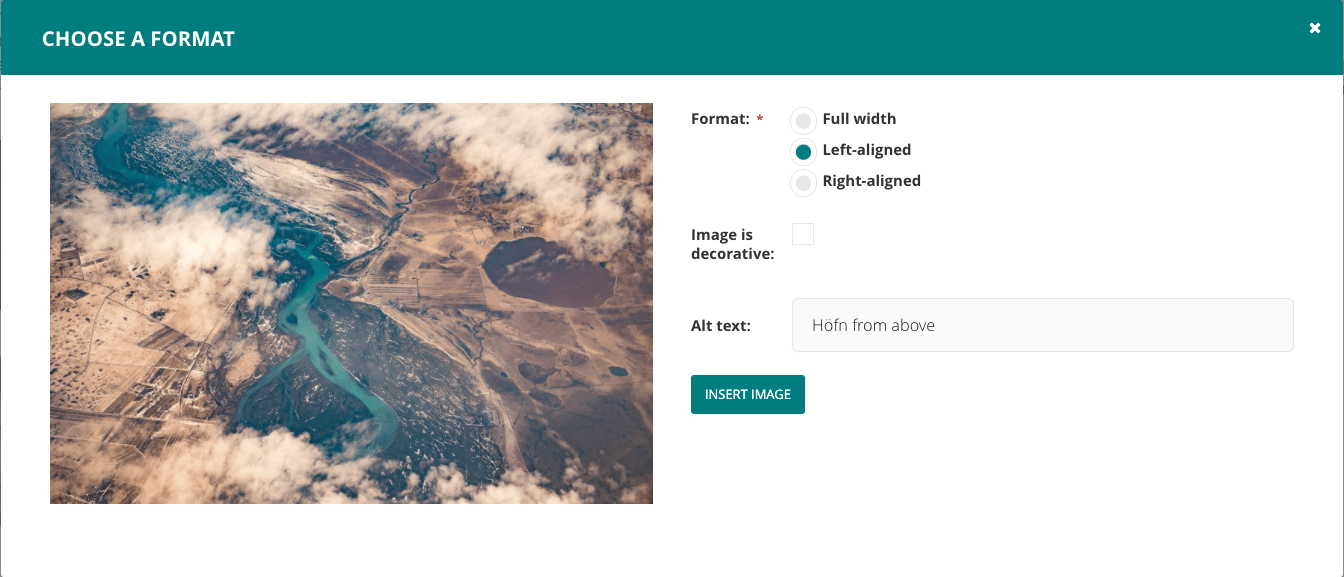
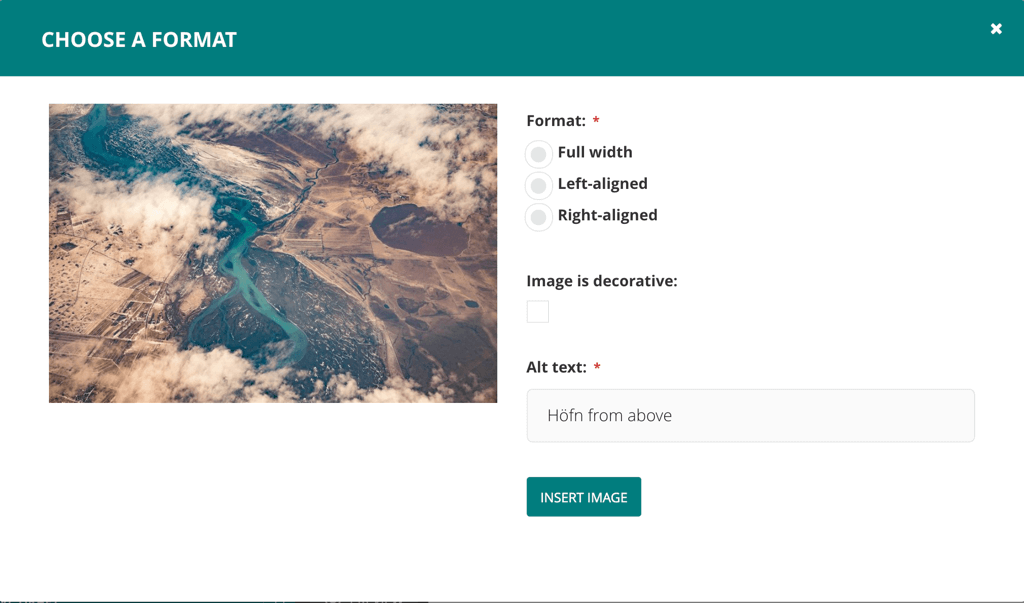
Move labels above the form field in the image format chooser

diff --git a/wagtail/images/templates/wagtailimages/chooser/select_format.html b/wagtail/images/templates/wagtailimages/chooser/select_format.html
@@ -12,7 +12,7 @@
             {% csrf_token %}
             <ul class="fields">
                 {% for field in form %}
-                    {% include "wagtailadmin/shared/field_as_li.html" with field=field %}
+                    {% include "wagtailadmin/shared/field_as_li.html" with field=field li_classes="label-above" %}
                 {% endfor %}
                 <li><input type="submit" value="{% trans 'Insert image' %}"  class="button" /></li>
             </ul>
